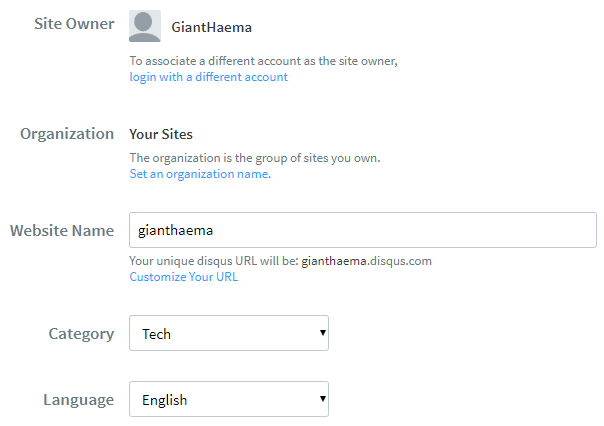
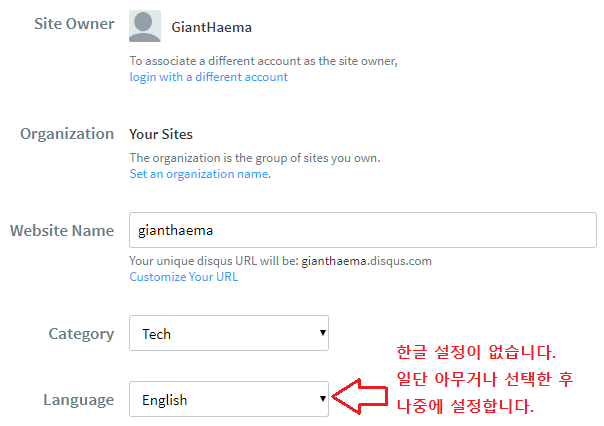
no message

Changed region(s): [[0.5662, 0.7934, 0.9536, 0.9765], [0.5364, 0.9155, 0.5662, 0.946]]

diff --git a/blog/_posts/2019-10-01-Jekyll-Disqus적용(+한글설정).md b/blog/_posts/2019-10-01-Jekyll-Disqus적용(+한글설정).md
@@ -1,0 +1,65 @@
+---
+layout: post
+title:  "Disqus"
+subtitle:   "댓글서비스"
+comments: true
+---
+
+## __Jekyll에 Disqus 적용 방법 - 댓글서비스__
+
+## __1. Disqus?__
+
+__Disqus__ 는 __소셜 댓글 서비스__ 의 하나로 다양한 SNS와 연동해서 댓글을 달 수 있습니다.  
+별도의 댓글시스템을 구현할 필요없이 간단한 설정만으로 디스커스에서 제공하는 위젯을 사용할 수 있습니다.
+
+
+## __2. Disqus 가입 및 설정__
+
+1. __Disqus 가입__  
+    [https://disqus.com/](https://disqus.com/)에서 __회원가입__ 을 하신 후에 __Email__ 인증을 합니다.  
+    
+2. 메인화면에서 __GET STARTED__ 를 누릅니다.
+![01.DISCUS](/assets/img/posts/2019-10-01-DISCUS/01.DISCUS.png) 
+3. __I Want to install Disqus on my site__ 를 누릅니다.
+ 
+4. Website Name, Category, Language 를 입력, 선택합니다.  
+   Website Name 의 경우 나중에 __Jekyll__ 에서 사용되는 설정 값 __Shortname__ 이 됩니다.  
+   입력하신 값의 중복된 이름이 있는 경우 아래에 다음 예시와 같이 변경될 Shortname 이 표시됩니다.  
+   `예) Your unique disqus URL will be: gianthaema-8.disqus.com`
+
+5. __무료버전__ 을 선택합니다.
+
+6. __Jekyll__ 을 선택합니다.
+ 
+7. ___config.yml__ 에 다음과 같이 disqus 설정을 합니다.  
+`사용하시는 테마에 따라 설정 방법이 상이할 수 있습니다. 테마별 설명서를 참고해주세요. 아래 설정은 hydejack 테마입니다.`
+
+```yaml
+# disqus 설정
+disqus: gianthaema
+```
+위 설정만 하시는 경우 댓글기능 사용을 원하는 글 상단에 `comments: true` 를 추가해서 사용해야합니다.  
+모든 posts 에 댓글 기능을 사용하시려면 ___config.yml__ 에 아래 설정을 추가합니다.   
+(테마에 따라 하지 않아도 되는경우가 있습니다.)
+```yaml
+defaults:
+  - scope:
+      type: posts
+    values:
+      comments: true
+```
+
+
+## __3. Disqus 한글 설정__
+
+한글 설정이 되지 않았다면 아래 이미지에 표시한 부분들이 Disqus 에서 설정한 언어로 보일 것입니다.
+
+한글 설정을 하기위해 아래 이미지를 따라 General 설정 페이지에 접근합니다.
+
+언어 설정을 찾아 크롬 개발자도구에서 아무 언어의 `value` 를 `"ko"` 로 변경하신 후에 선택하여 저장합니다.
+
+
+
+
+
+
